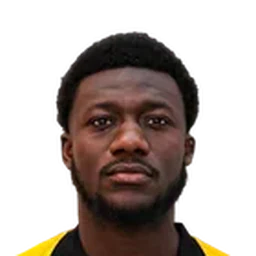
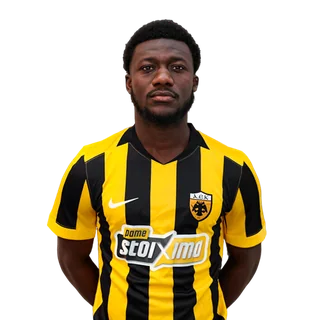
Vracene originalne fotografije (cela figura), verzija 2026-11-07b
Goranova odluka: portreti isieceni na glavu se vracaju na originalne slike iz
Player Hub-a. Redosled kao na prijavi tima ostaje.

diff --git a/index.html b/index.html
@@ -274,7 +274,7 @@ select.inp{appearance:none;-webkit-appearance:none;padding-right:34px;background
 
 <script>
 /* ============ DATA ============ */
-const BUILD="2026-11-07a";
+const BUILD="2026-11-07b";
 const KEY="aekck:v2", LKEY="aekck:look";
 const ACTS=[["FG","Full game"],["PG","Partial game"],["PG+T","Partial game + training"],["TR","Training session"],["OFF","Day off"],["TEST","Isolated re-test"],["INJ","Injured / unavailable"]];
 const ACT_LABEL=Object.fromEntries(ACTS);
